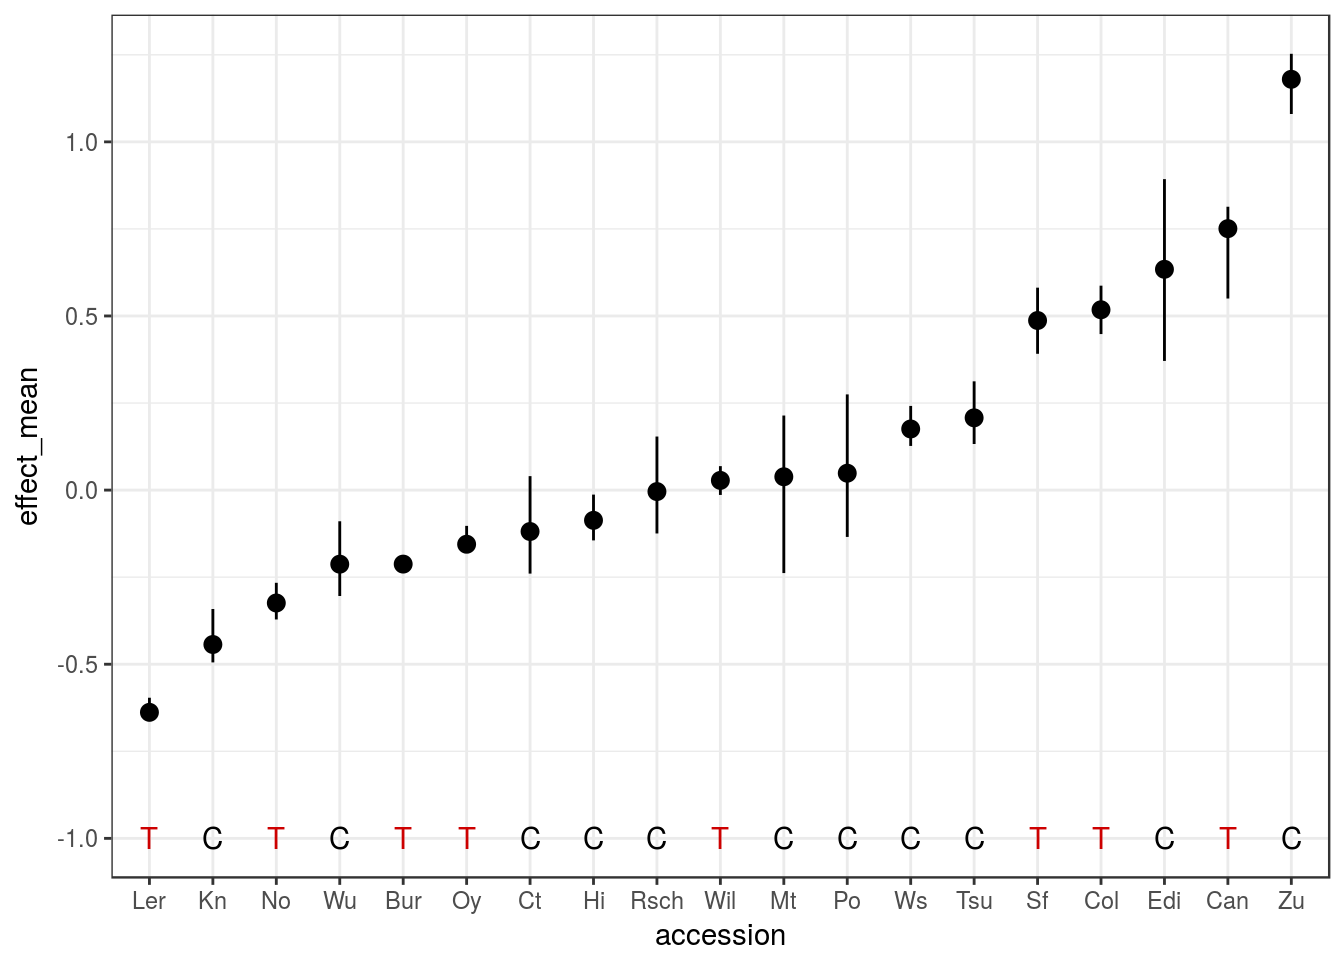
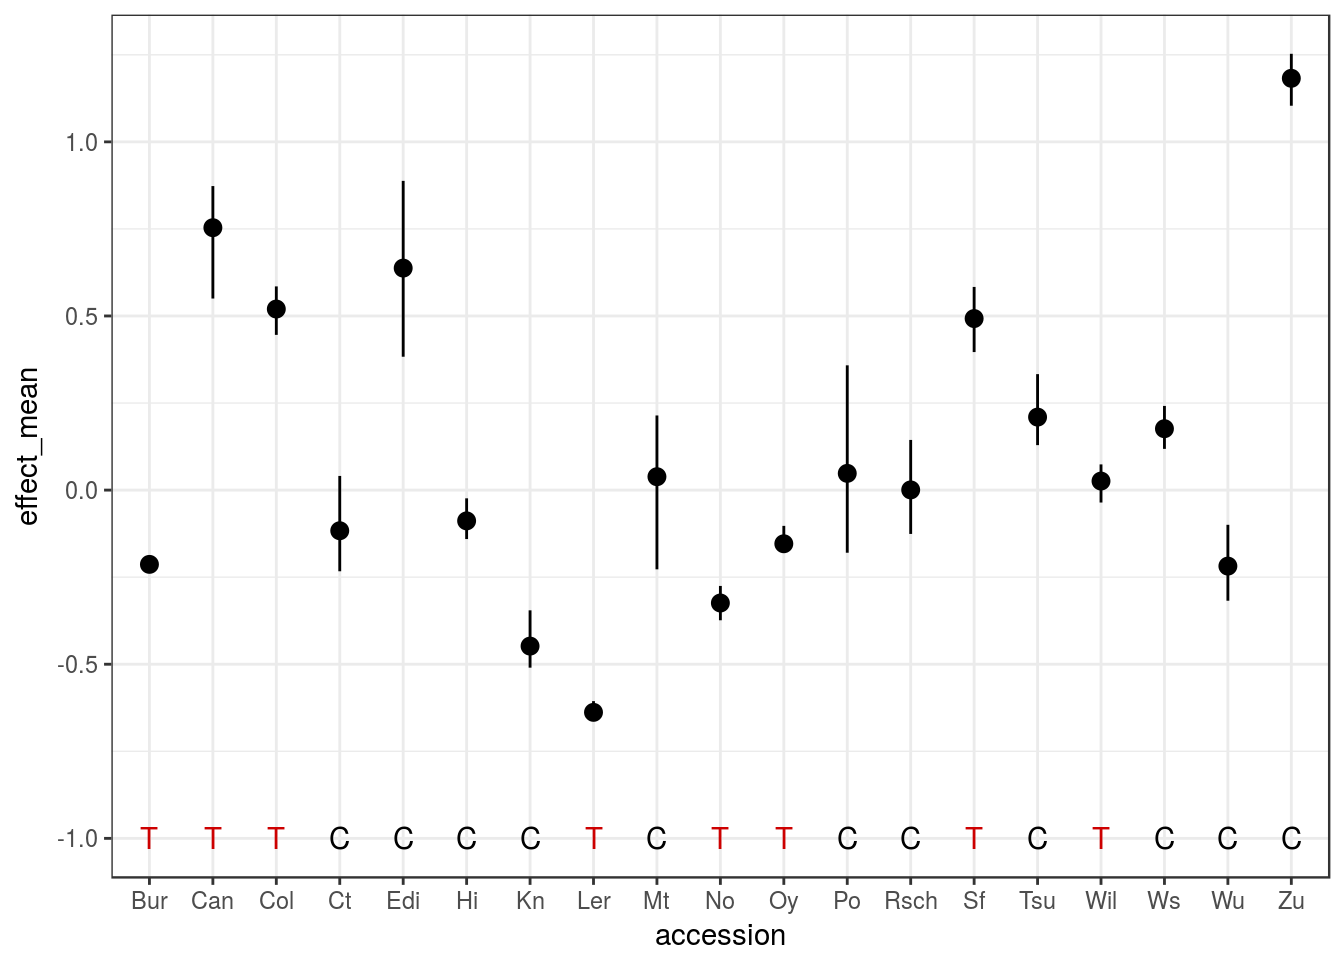
Update documentation

diff --git a/docs/articles/introduction.html b/docs/articles/introduction.html
@@ -225,7 +225,7 @@ bolt_qtl &lt;-<span class="st"> </span><span class="kw"><a href="../reference/sc
 <pre><code>## F-test comparing the models:
 ##   H1: days.to.bolt ~ GEN
 ##   H0: days.to.bolt ~ 1</code></pre>
-<pre><code>## Elapsed time: 29 seconds</code></pre>
+<pre><code>## Elapsed time: 28 seconds</code></pre>
 <p>The function supports the use of multiple cores (not supported on Windows), which can speed the computation:</p>
 <div class="sourceCode"><pre class="sourceCode r"><code class="sourceCode r"><span class="co"># QTL scan for days.to.bolt trait</span>
 bolt_qtl &lt;-<span class="st"> </span><span class="kw"><a href="../reference/scanQtl.html">scanQtl</a></span>(magic_phen, <span class="st">"days.to.bolt"</span>, <span class="dt">cores =</span> <span class="dv">2</span>)
@@ -265,7 +265,7 @@ bolt_qtl &lt;-<span class="st"> </span><span class="kw"><a href="../reference/sc
 <pre><code>## F-test comparing the models:
 ##   H1: bolt.to.flower ~ GEN
 ##   H0: bolt.to.flower ~ 1</code></pre>
-<pre><code>## Elapsed time: 17 seconds</code></pre>
+<pre><code>## Elapsed time: 16 seconds</code></pre>
 <div class="sourceCode"><pre class="sourceCode r"><code class="sourceCode r"><span class="kw"><a href="http://www.rdocumentation.org/packages/ggplot2/topics/ggplot">ggplot</a></span>(flower_qtl, <span class="kw"><a href="http://www.rdocumentation.org/packages/ggplot2/topics/aes">aes</a></span>(bp/<span class="fl">1e6</span>, -<span class="kw">log10</span>(p))) +
 <span class="st">  </span><span class="kw"><a href="http://www.rdocumentation.org/packages/ggplot2/topics/geom_path">geom_line</a></span>() +
 <span class="st">  </span><span class="kw"><a href="http://www.rdocumentation.org/packages/ggplot2/topics/facet_grid">facet_grid</a></span>(~<span class="st"> </span>chromosome, <span class="dt">scales =</span> <span class="st">"free_x"</span>, <span class="dt">space =</span> <span class="st">"free_x"</span>) +
@@ -279,7 +279,7 @@ bolt_cov_qtl &lt;-<span class="st"> </span><span class="kw"><a href="../referenc
 <pre><code>## F-test comparing the models:
 ##   H1:days.to.bolt ~ GEN + bolt.to.flower
 ##   H0:days.to.bolt ~ bolt.to.flower</code></pre>
-<pre><code>## Elapsed time: 29 seconds</code></pre>
+<pre><code>## Elapsed time: 28 seconds</code></pre>
 <div class="sourceCode"><pre class="sourceCode r"><code class="sourceCode r"><span class="co"># Make plot</span>
 <span class="kw"><a href="http://www.rdocumentation.org/packages/ggplot2/topics/ggplot">ggplot</a></span>(bolt_cov_qtl, <span class="kw"><a href="http://www.rdocumentation.org/packages/ggplot2/topics/aes">aes</a></span>(bp/<span class="fl">1e6</span>, -<span class="kw">log10</span>(p))) +
 <span class="st">  </span><span class="kw"><a href="http://www.rdocumentation.org/packages/ggplot2/topics/geom_path">geom_line</a></span>(<span class="kw"><a href="http://www.rdocumentation.org/packages/ggplot2/topics/aes">aes</a></span>(<span class="dt">colour =</span> <span class="st">"covariate"</span>)) +
@@ -365,18 +365,19 @@ pvals &lt;-<span class="st"> </span><span class="kw">cbind</span>(markers, <span
 <a href="#estimating-qtl-effect-sizes" class="anchor"></a>Estimating QTL effect sizes</h1>
 <p>Once a significant QTL peak is identified, we might be interested in what the predicted effect of each allele is in our phenotype. Because the MAGIC line genotypes in each marker are assigned to each parent as a probability, this has to be done by a probabilistic “phenotype imputation”. Details of the method can be found in <a href="http://journals.plos.org/plosgenetics/article?id=10.1371/journal.pgen.1000551">Kover P .. Mott R (2009)</a>, but essentially, we can use the function <code><a href="../reference/estimateFounderEffect.html">estimateFounderEffect()</a></code> to achieve this goal:</p>
 <div class="sourceCode"><pre class="sourceCode r"><code class="sourceCode r"><span class="co"># Predicted effect of QTL on chr5 identified previously</span>
-peak5_effect &lt;-<span class="st"> </span><span class="kw"><a href="../reference/estimateFounderEffect.html">estimateFounderEffect</a></span>(magic_phen, <span class="st">"days.to.bolt"</span>, peak5)
-
-<span class="kw">head</span>(peak5_effect)</code></pre></div>
-<pre><code>## # A tibble: 6 x 5
-##   accession effect_mean   effect_up  effect_lo     n
-##      &lt;fctr&gt;       &lt;dbl&gt;       &lt;dbl&gt;      &lt;dbl&gt; &lt;dbl&gt;
-## 1       Bur -0.21233826 -0.19005992 -0.2328602    37
-## 2       Can  0.75096480  0.81373026  0.5501540     7
-## 3       Col  0.51787874  0.58711770  0.4480016    15
-## 4        Ct -0.11876073  0.04019792 -0.2396967    15
-## 5       Edi  0.63409584  0.89298857  0.3709938     9
-## 6        Hi -0.08670452 -0.01289355 -0.1443364    37</code></pre>
+peak5_effect &lt;-<span class="st"> </span><span class="kw"><a href="../reference/estimateFounderEffect.html">estimateFounderEffect</a></span>(magic_phen, <span class="st">"days.to.bolt"</span>, peak5)</code></pre></div>
+<pre><code>## Warning: Column `accession` joining factor and character vector, coercing
+## into character vector</code></pre>
+<div class="sourceCode"><pre class="sourceCode r"><code class="sourceCode r"><span class="kw">head</span>(peak5_effect)</code></pre></div>
+<pre><code>## # A tibble: 6 x 7
+##   accession effect_mean   effect_up  effect_lo     n      marker allele
+##       &lt;chr&gt;       &lt;dbl&gt;       &lt;dbl&gt;      &lt;dbl&gt; &lt;dbl&gt;       &lt;chr&gt;  &lt;chr&gt;
+## 1       Bur -0.21319435 -0.19622847 -0.2328602    37 MN5_3177504      T
+## 2       Can  0.75365277  0.87305148  0.5501540     7 MN5_3177504      T
+## 3       Col  0.52004054  0.58496952  0.4458479    15 MN5_3177504      T
+## 4        Ct -0.11656873  0.04075125 -0.2330301    16 MN5_3177504      C
+## 5       Edi  0.63757512  0.88806142  0.3830209     9 MN5_3177504      C
+## 6        Hi -0.08822093 -0.02361345 -0.1405748    37 MN5_3177504      C</code></pre>
 <p>This returns a <code>data.frame</code> with the predicted contribution of each accession to the phenotype. Because this is probabilistic in nature, the method relies on repeating this estimate several times (500 by default). By default, the <code><a href="../reference/estimateFounderEffect.html">estimateFounderEffect()</a></code> function returns a summary of these probabilistic estimates with a mean and lower and upper “confidence interval” for the estimate.</p>
 <p>By default, it also standardizes the trait as z-scores (i.e. subtracts the mean trait value observed in the sampled individuals from the estimate and divides by the observed standard deviation - in other words, the values can be read as “standard deviations away from the mean”).</p>
 <p>The result can be plotted like so:</p>
@@ -393,17 +394,18 @@ peak5_effect &lt;-<span class="st"> </span><span class="kw"><a href="../referenc
 <div class="sourceCode"><pre class="sourceCode r"><code class="sourceCode r"><span class="kw"><a href="../reference/estimateFounderEffect.html">estimateFounderEffect</a></span>(magic_phen, <span class="st">"days.to.bolt"</span>, peak5, <span class="dt">standardised =</span> <span class="ot">FALSE</span>) %&gt;%<span class="st"> </span>
 <span class="st">    </span><span class="kw"><a href="http://www.rdocumentation.org/packages/ggplot2/topics/ggplot">ggplot</a></span>(<span class="kw"><a href="http://www.rdocumentation.org/packages/ggplot2/topics/aes">aes</a></span>(accession, effect_mean)) +
 <span class="st">  </span><span class="kw"><a href="http://www.rdocumentation.org/packages/ggplot2/topics/geom_linerange">geom_pointrange</a></span>(<span class="kw"><a href="http://www.rdocumentation.org/packages/ggplot2/topics/aes">aes</a></span>(<span class="dt">ymin =</span> effect_lo, <span class="dt">ymax =</span> effect_up))</code></pre></div>
+<pre><code>## Warning: Column `accession` joining factor and character vector, coercing
+## into character vector</code></pre>
 <p><img src="introduction_files/figure-html/unnamed-chunk-24-1.png" width="672"></p>
 <p>The plot is essentially the same, but now the scale can be read in the original units of “days.to.flower”, so between ~20 days for <em>Ler</em> and ~32 days for <em>Zu</em>.</p>
-<p>Another trick that can be used is to add what the SNP allele is for each of the founder accessions. As shown before, this information is stored in the <code>MagicGenPhen</code> object and can be returned by the <code><a href="../reference/getFounderGenotypes.html">getFounderGenotypes()</a></code> function.</p>
-<p>Here is how to achieve this with ggplot2:</p>
+<p>Another trick that can be used is to add what the SNP allele is for each of the founder accessions. This is also available on the output from <code><a href="../reference/estimateFounderEffect.html">estimateFounderEffect()</a></code> function, and can be visualised like so:</p>
 <div class="sourceCode"><pre class="sourceCode r"><code class="sourceCode r"><span class="kw"><a href="http://www.rdocumentation.org/packages/ggplot2/topics/ggplot">ggplot</a></span>(peak5_effect, <span class="kw"><a href="http://www.rdocumentation.org/packages/ggplot2/topics/aes">aes</a></span>(accession, effect_mean)) +
 <span class="st">  </span><span class="kw"><a href="http://www.rdocumentation.org/packages/ggplot2/topics/geom_linerange">geom_pointrange</a></span>(<span class="kw"><a href="http://www.rdocumentation.org/packages/ggplot2/topics/aes">aes</a></span>(<span class="dt">ymin =</span> effect_lo, <span class="dt">ymax =</span> effect_up)) +
-<span class="st">  </span><span class="kw"><a href="http://www.rdocumentation.org/packages/ggplot2/topics/geom_text">geom_text</a></span>(<span class="dt">data =</span> <span class="kw"><a href="../reference/getFounderGenotypes.html">getFounderGenotypes</a></span>(magic_phen)[[peak5]], 
-            <span class="kw"><a href="http://www.rdocumentation.org/packages/ggplot2/topics/aes">aes</a></span>(<span class="dt">y =</span> -<span class="dv">1</span>, <span class="dt">label =</span> allele, <span class="dt">colour =</span> allele)) +
+<span class="st">  </span><span class="kw"><a href="http://www.rdocumentation.org/packages/ggplot2/topics/geom_text">geom_text</a></span>(<span class="kw"><a href="http://www.rdocumentation.org/packages/ggplot2/topics/aes">aes</a></span>(<span class="dt">y =</span> -<span class="dv">1</span>, <span class="dt">label =</span> allele, <span class="dt">colour =</span> allele)) +
 <span class="st">  </span><span class="kw"><a href="http://www.rdocumentation.org/packages/ggplot2/topics/scale_manual">scale_color_manual</a></span>(<span class="dt">values =</span> <span class="kw">c</span>(<span class="st">"black"</span>, <span class="st">"red3"</span>)) +
 <span class="st">  </span><span class="kw"><a href="http://www.rdocumentation.org/packages/ggplot2/topics/theme">theme</a></span>(<span class="dt">legend.position =</span> <span class="st">"none"</span>)</code></pre></div>
 <p><img src="introduction_files/figure-html/unnamed-chunk-25-1.png" width="672"></p>
+<p>(note that you could also get the founder genotypes with <code>getFounderGenotypes(magic_phen)[[peak5]]</code>)</p>
 <p>This nicely shows that the effect of the SNP allele is not that well correlated with the predicted effect of the founder allele. For example, accessions <em>Kn</em> and <em>Zu</em> have very different predicted flowering time contributions, but they both have the same SNP genotype at this marker.</p>
 <p>Another way to consider this, is to group the MAGIC lines by their SNP allele and plot the phenotype distributions for this. This can be achieved by another function called <code><a href="../reference/inferMagicFounder.html">inferMagicFounder()</a></code>, which assigns each MAGIC line to a single founder, based on some probability threshold (0.5 by default).</p>
 <div class="sourceCode"><pre class="sourceCode r"><code class="sourceCode r">peak5_inferred &lt;-<span class="st"> </span><span class="kw"><a href="../reference/inferMagicFounder.html">inferMagicFounder</a></span>(magic_phen, peak5)</code></pre></div>
